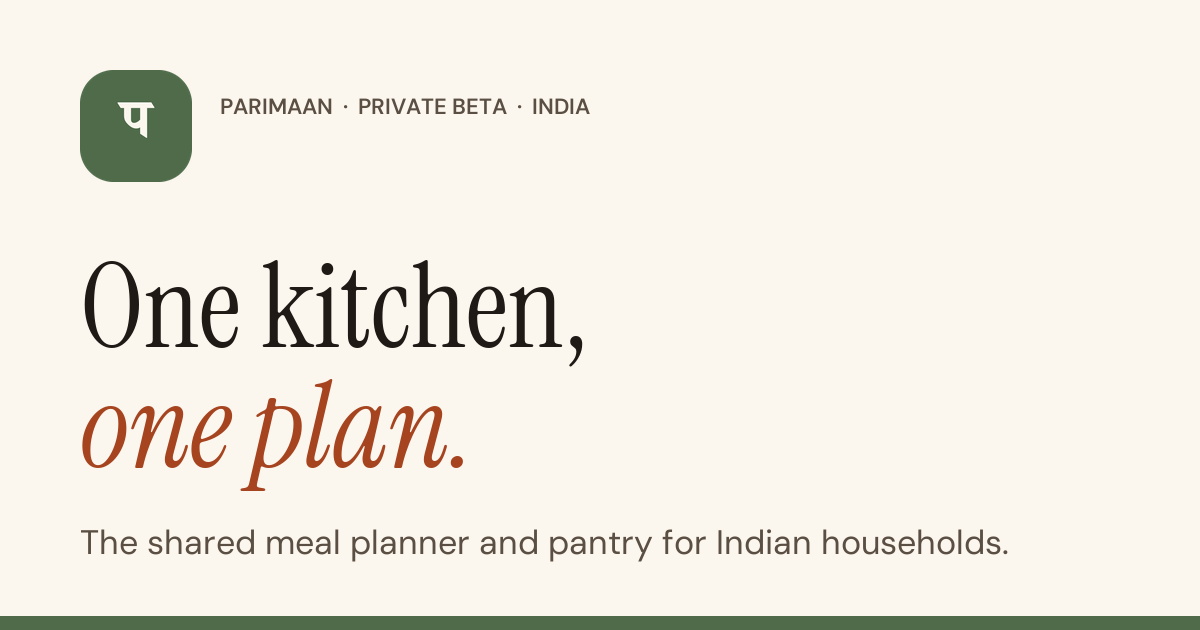
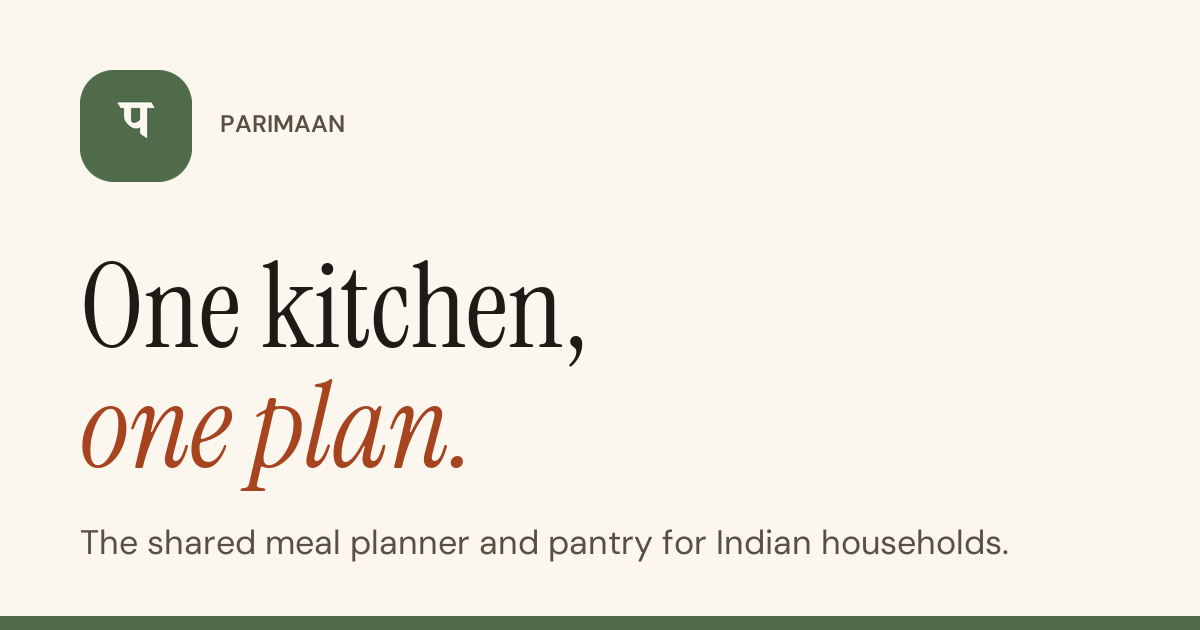
feat(marketing): founder feedback — contact + socials, AI 'swaad anusaar', simpler hero
- Footer: visible contact email and Instagram / Threads / X (@parimaanapp);
  sameAs added to the Organization JSON-LD.
- Hero: removed the 'Private beta · India' eyebrow; platforms line now
  says the beta runs on Android and iPhone.
- Removed the 'Why Parimaan' section.
- 'How we use AI' replaced by 'AI, swaad anusaar.' — generous where typing
  is tedious, never in charge, not everywhere.
- Every 'join the beta' link now opens an email to parimaanapp@gmail.com
  instead of scrolling to the beta section.
- Footer wording on the name's meaning made more precise.
- OG image no longer says 'Private beta · India'.

Changed region(s): [[0.185, 0.1508, 0.4933, 0.2111]]

diff --git a/marketing/index.html b/marketing/index.html
@@ -40,6 +40,11 @@
         "url": "https://www.parimaan.app/",
         "logo": "https://www.parimaan.app/assets/parimaan-mark-512.png",
         "email": "parimaanapp@gmail.com",
+        "sameAs": [
+          "https://www.instagram.com/parimaanapp/",
+          "https://www.threads.com/@parimaanapp",
+          "https://x.com/parimaanapp"
+        ],
         "description": "Parimaan is a household-shared meal planning and pantry app built for Indian kitchens."
       }
     </script>
@@ -58,7 +63,7 @@
           <a href="#how">How it works</a>
           <a href="#features">Features</a>
           <a href="/privacy.html">Privacy</a>
-          <a class="btn btn-primary" href="#beta">Join the beta</a>
+          <a class="btn btn-primary" href="mailto:parimaanapp@gmail.com?subject=Parimaan%20beta%20access&amp;body=Hi%21%20I%27d%20like%20to%20try%20Parimaan.%0A%0AName%3A%0ACity%3A%0AAndroid%20or%20iPhone%3A%0AHow%20many%20people%20share%20your%20kitchen%3A">Join the beta</a>
         </nav>
       </div>
     </header>
@@ -67,17 +72,16 @@
       <section class="hero" aria-labelledby="hero-title">
         <div class="wrap">
           <div>
-            <p class="eyebrow">Private beta &middot; India</p>
             <h1 id="hero-title">One kitchen, <em>one plan.</em></h1>
             <p class="lede">
               Parimaan is the shared meal planner and pantry for Indian households. Plan the week
               together, see what's already in the kitchen, and shop only for what's missing.
             </p>
             <div class="cta-row">
-              <a class="btn btn-primary" href="#beta">Request beta access</a>
+              <a class="btn btn-primary" href="mailto:parimaanapp@gmail.com?subject=Parimaan%20beta%20access&amp;body=Hi%21%20I%27d%20like%20to%20try%20Parimaan.%0A%0AName%3A%0ACity%3A%0AAndroid%20or%20iPhone%3A%0AHow%20many%20people%20share%20your%20kitchen%3A">Request beta access</a>
               <a class="btn btn-ghost" href="#how">See how it works</a>
             </div>
-            <p class="fineprint">Starting on Android, with iPhone to follow. Free to try during the beta.</p>
+            <p class="fineprint">The beta runs on Android and iPhone. Free to try.</p>
           </div>
 
           <aside class="plan-card" aria-hidden="true">
@@ -120,30 +124,6 @@
               <span class="pill">9 already in pantry</span>
             </div>
           </aside>
-        </div>
-      </section>
-
-      <section class="section section-alt" aria-labelledby="questions-title">
-        <div class="wrap">
-          <div class="section-head">
-            <p class="eyebrow">Why Parimaan</p>
-            <h2 id="questions-title">Every kitchen asks the same three questions.</h2>
-          </div>
-          <ol class="questions">
-            <li>
-              <h3>What are we eating this week?</h3>
-              <p>Usually decided on paper, in a WhatsApp thread, or in one person's head.</p>
-            </li>
-            <li>
-              <h3>What do we already have?</h3>
-              <p>Half the pantry is a surprise until the dal runs out on a Tuesday.</p>
-            </li>
-            <li>
-              <h3>What do we need to buy?</h3>
-              <p>Written down once, forgotten, then bought twice.</p>
-            </li>
-          </ol>
-          <p class="closer">Parimaan answers all three in one place the whole household shares.</p>
         </div>
       </section>
 
@@ -230,18 +210,27 @@
       <section class="section band" aria-labelledby="ai-title">
         <div class="wrap">
           <div>
-            <p class="eyebrow">How we use AI</p>
-            <h2 id="ai-title">AI proposes. <em>You decide.</em></h2>
+            <h2 id="ai-title">AI, <em>swaad anusaar.</em></h2>
           </div>
           <div>
             <p>
-              Parimaan's AI does the typing so you don't have to. It never changes your pantry or
-              saves a recipe on its own.
+              In a recipe, <em>swaad anusaar</em> means "to taste": add what the dish needs, then
+              stop. That is how Parimaan uses AI.
             </p>
             <ul>
-              <li>Every shelf reading, recipe parse and suggestion waits for your confirmation.</li>
-              <li>Shelf photos are deleted as soon as they've been analysed.</li>
-              <li>No ads, and we don't sell your household's data.</li>
+              <li>
+                <strong>Generous where typing is tedious.</strong> Reading a shelf photo, turning a
+                pasted note into a recipe, suggesting dinner from what's already in the pantry.
+              </li>
+              <li>
+                <strong>Never in charge.</strong> It proposes and you confirm. Nothing reaches your
+                pantry or recipe book without your yes, and shelf photos are deleted as soon as
+                they've been read.
+              </li>
+              <li>
+                <strong>Not everywhere.</strong> Your week plan and shopping list are worked out by
+                plain rules and arithmetic, not guessed by a model.
+              </li>
             </ul>
           </div>
         </div>
@@ -309,15 +298,32 @@
             <span class="wordmark" lang="hi">परिमाण</span>
           </a>
           <p>
-            <strong>Parimaan</strong> (परिमाण) is Sanskrit and Hindi for <em>measure</em>: knowing
-            what's in the kitchen, what needs cooking, and what still needs buying.
+            <strong>Parimaan</strong> (<span lang="sa">परिमाण</span>) is a Sanskrit word for
+            measure: quantity, size, extent. We chose it because we want to help you keep the right
+            measure in your kitchen.
           </p>
         </div>
-        <ul class="footer-links">
-          <li><a href="/privacy.html">Privacy policy</a></li>
-          <li><a href="mailto:parimaanapp@gmail.com">Contact</a></li>
-          <li><a href="#beta">Join the beta</a></li>
-        </ul>
+        <div>
+          <p class="footer-heading">Explore</p>
+          <ul class="footer-links">
+            <li><a href="/#how">How it works</a></li>
+            <li><a href="/#features">Features</a></li>
+            <li><a href="/privacy.html">Privacy policy</a></li>
+            <li><a href="mailto:parimaanapp@gmail.com?subject=Parimaan%20beta%20access&amp;body=Hi%21%20I%27d%20like%20to%20try%20Parimaan.%0A%0AName%3A%0ACity%3A%0AAndroid%20or%20iPhone%3A%0AHow%20many%20people%20share%20your%20kitchen%3A">Join the beta</a></li>
+          </ul>
+        </div>
+        <div>
+          <p class="footer-heading">Contact</p>
+          <ul class="footer-links">
+            <li><a href="mailto:parimaanapp@gmail.com">parimaanapp@gmail.com</a></li>
+          </ul>
+          <p class="footer-heading">Follow</p>
+          <ul class="footer-links">
+            <li><a href="https://www.instagram.com/parimaanapp/" rel="me noopener noreferrer">Instagram &middot; @parimaanapp</a></li>
+            <li><a href="https://www.threads.com/@parimaanapp" rel="me noopener noreferrer">Threads &middot; @parimaanapp</a></li>
+            <li><a href="https://x.com/parimaanapp" rel="me noopener noreferrer">X &middot; @parimaanapp</a></li>
+          </ul>
+        </div>
         <div class="legal">
           <p>&copy; 2026 Parimaan. Made in India.</p>
         </div>

diff --git a/marketing/privacy.html b/marketing/privacy.html
@@ -31,7 +31,7 @@
           <a href="/#how">How it works</a>
           <a href="/#features">Features</a>
           <a href="/privacy.html" aria-current="page">Privacy</a>
-          <a class="btn btn-primary" href="/#beta">Join the beta</a>
+          <a class="btn btn-primary" href="mailto:parimaanapp@gmail.com?subject=Parimaan%20beta%20access&amp;body=Hi%21%20I%27d%20like%20to%20try%20Parimaan.%0A%0AName%3A%0ACity%3A%0AAndroid%20or%20iPhone%3A%0AHow%20many%20people%20share%20your%20kitchen%3A">Join the beta</a>
         </nav>
       </div>
     </header>
@@ -189,15 +189,32 @@
             <span class="wordmark" lang="hi">परिमाण</span>
           </a>
           <p>
-            <strong>Parimaan</strong> (परिमाण) is Sanskrit and Hindi for <em>measure</em>: knowing
-            what's in the kitchen, what needs cooking, and what still needs buying.
+            <strong>Parimaan</strong> (<span lang="sa">परिमाण</span>) is a Sanskrit word for
+            measure: quantity, size, extent. We chose it because we want to help you keep the right
+            measure in your kitchen.
           </p>
         </div>
-        <ul class="footer-links">
-          <li><a href="/privacy.html">Privacy policy</a></li>
-          <li><a href="mailto:parimaanapp@gmail.com">Contact</a></li>
-          <li><a href="/#beta">Join the beta</a></li>
-        </ul>
+        <div>
+          <p class="footer-heading">Explore</p>
+          <ul class="footer-links">
+            <li><a href="/#how">How it works</a></li>
+            <li><a href="/#features">Features</a></li>
+            <li><a href="/privacy.html">Privacy policy</a></li>
+            <li><a href="mailto:parimaanapp@gmail.com?subject=Parimaan%20beta%20access&amp;body=Hi%21%20I%27d%20like%20to%20try%20Parimaan.%0A%0AName%3A%0ACity%3A%0AAndroid%20or%20iPhone%3A%0AHow%20many%20people%20share%20your%20kitchen%3A">Join the beta</a></li>
+          </ul>
+        </div>
+        <div>
+          <p class="footer-heading">Contact</p>
+          <ul class="footer-links">
+            <li><a href="mailto:parimaanapp@gmail.com">parimaanapp@gmail.com</a></li>
+          </ul>
+          <p class="footer-heading">Follow</p>
+          <ul class="footer-links">
+            <li><a href="https://www.instagram.com/parimaanapp/" rel="me noopener noreferrer">Instagram &middot; @parimaanapp</a></li>
+            <li><a href="https://www.threads.com/@parimaanapp" rel="me noopener noreferrer">Threads &middot; @parimaanapp</a></li>
+            <li><a href="https://x.com/parimaanapp" rel="me noopener noreferrer">X &middot; @parimaanapp</a></li>
+          </ul>
+        </div>
         <div class="legal">
           <p>&copy; 2026 Parimaan. Made in India.</p>
         </div>

diff --git a/marketing/styles.css b/marketing/styles.css
@@ -443,34 +443,6 @@ p {
   color: var(--ink-soft);
 }
 
-.questions {
-  list-style: none;
-  margin: 0;
-  padding: 0;
-  display: grid;
-  grid-template-columns: repeat(3, minmax(0, 1fr));
-  gap: clamp(20px, 3vw, 40px);
-}
-.questions li {
-  border-top: 2px solid var(--ink);
-  padding-top: 18px;
-}
-.questions h3 {
-  font-size: 1.75rem;
-}
-.questions p {
-  margin-top: 10px;
-  color: var(--ink-soft);
-  font-size: 1rem;
-}
-.closer {
-  margin-top: clamp(28px, 4vw, 44px);
-  font-family: var(--serif);
-  font-size: 1.75rem;
-  line-height: 1.25;
-  max-width: 30ch;
-}
-
 /* steps — a real sequence, so the numbers carry information */
 .steps {
   list-style: none;
@@ -535,9 +507,6 @@ p {
   background: var(--cardamom);
   color: var(--paper);
 }
-.band .eyebrow {
-  color: var(--cardamom-soft);
-}
 .band h2 em {
   color: var(--haldi-soft);
 }
@@ -553,10 +522,14 @@ p {
 }
 .band ul {
   list-style: none;
-  margin: 0;
+  margin: 28px 0 0;
   padding: 0;
   display: grid;
   gap: 18px;
+}
+.band li strong {
+  font-weight: 600;
+  color: var(--haldi-soft);
 }
 .band li {
   padding-left: 28px;
@@ -635,8 +608,19 @@ p {
 }
 .site-footer .wrap {
   display: grid;
-  grid-template-columns: minmax(0, 1.4fr) minmax(0, 1fr);
+  grid-template-columns: minmax(0, 1.5fr) minmax(0, 0.8fr) minmax(0, 1fr);
   gap: 32px;
+}
+.footer-heading {
+  margin: 0 0 4px;
+  font-size: 0.75rem;
+  font-weight: 600;
+  letter-spacing: 0.14em;
+  text-transform: uppercase;
+  color: var(--ink-mid);
+}
+.footer-heading:not(:first-child) {
+  margin-top: 20px;
 }
 .site-footer p {
   max-width: 44ch;
@@ -739,7 +723,6 @@ p {
 }
 
 @media (max-width: 680px) {
-  .questions,
   .features,
   .site-footer .wrap {
     grid-template-columns: minmax(0, 1fr);
